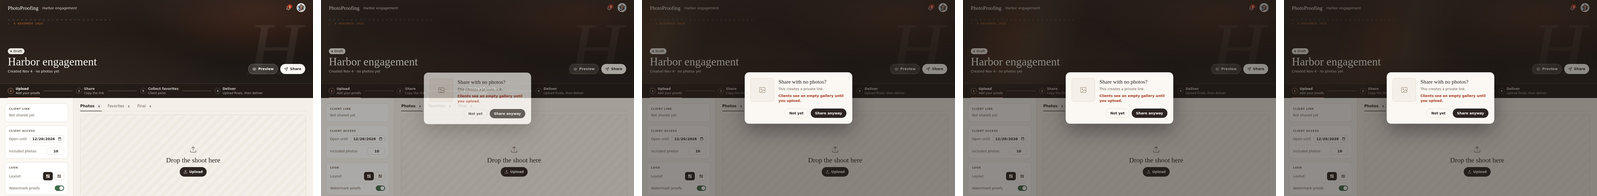
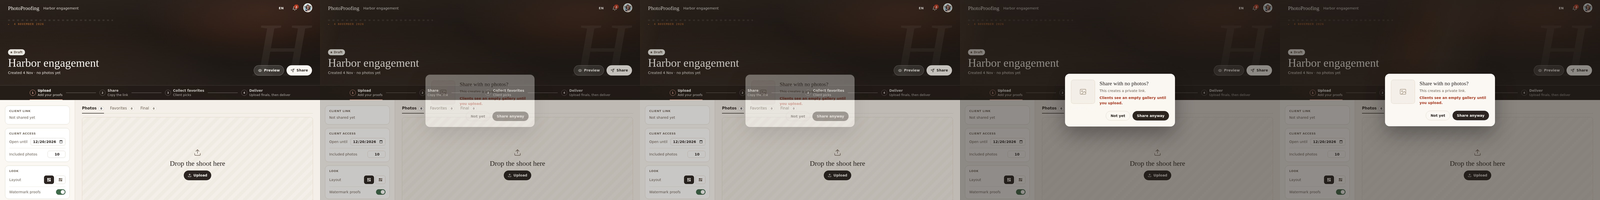
docs(ui): polish gallery select mode, centred steps and empty favorites

diff --git a/docs/designs/ui/prototype.html b/docs/designs/ui/prototype.html
@@ -199,7 +199,7 @@ mark{background:rgba(255,213,150,.55);color:inherit;border-radius:2px;padding:0 
 .ccov .deco .edge::before{margin:0 auto 8px}
 .ccov .deco .ini{right:50%;transform:translate(50%,-62%)}
 .cl .ccv .deco .edge{top:62px;text-align:left}
-.strip{position:absolute!important;left:0;right:0;bottom:0;display:flex;align-items:center;gap:14px;padding:0 32px;background:rgba(32,26,22,.74);-webkit-backdrop-filter:blur(14px) saturate(1.2);backdrop-filter:blur(14px) saturate(1.2);border-top:1px solid rgba(251,248,243,.18);color:rgba(251,248,243,.85)}
+.strip{position:absolute!important;left:0;right:0;bottom:0;display:flex;align-items:center;justify-content:center;gap:14px;padding:0 32px;background:rgba(32,26,22,.74);-webkit-backdrop-filter:blur(14px) saturate(1.2);backdrop-filter:blur(14px) saturate(1.2);border-top:1px solid rgba(251,248,243,.18);color:rgba(251,248,243,.85)}
 .strip .st{display:flex;gap:8px;align-items:center;padding:12px 0;white-space:nowrap;font-size:12.5px;position:relative}
 .strip .st>div{display:flex;flex-direction:column;line-height:1.3}
 .strip .st strong{color:#fbf8f3;font-weight:600;font-size:13.5px}
@@ -265,12 +265,10 @@ label.kv>span{white-space:nowrap}
 .tabs .lk{display:inline-flex;align-self:center;color:var(--muted);margin-left:-3px}
 .ptools{display:flex;align-items:center;justify-content:flex-end;gap:8px;margin:-2px 0 14px;min-height:44px}
 .ptools .fcount{flex:1}
-.selbar{flex:1;display:flex;align-items:center;gap:12px;background:var(--ink);color:#fbf8f3;border-radius:999px;padding:6px 6px 6px 8px;animation:rise .2s ease-out}
-.selbar strong{font:600 14px system-ui}
-.selbar .btn.gh{background:transparent;border-color:rgba(251,248,243,.3);color:#fbf8f3}
-.selbar .btn.lt{background:#fbf8f3;color:var(--ink)}
-.selbar .ic{width:32px;height:32px;border-radius:50%;display:grid;place-items:center;color:#fbf8f3}
-.selbar .ic:hover{background:rgba(251,248,243,.12)}
+.selinfo{flex:1;display:flex;align-items:center;gap:10px;animation:rise .2s ease-out}
+.selinfo strong{font:600 14px system-ui}
+.selinfo .ic{width:32px;height:32px;border-radius:50%;display:grid;place-items:center;color:var(--ink)}
+.selinfo .ic:hover{background:rgba(0,0,0,.06)}
 .mas{columns:4 180px;column-gap:10px}
 .mas.rows{columns:auto;display:grid;grid-template-columns:repeat(auto-fill,minmax(180px,1fr));gap:10px}
 .mas.rows .tile{margin:0;aspect-ratio:3/2}
@@ -317,9 +315,6 @@ button.hero:not(.on):hover{color:#f2c063}
 .drop h3{font:400 28px/1.2 Georgia,serif;color:var(--ink);margin:0}
 .drop p{margin:0;font-size:14px}
 .drop.lockd{border-style:solid;background:var(--panel)}
-.fempty{border:1px solid var(--line);border-radius:14px;background:var(--panel);min-height:340px;display:flex;flex-direction:column;align-items:center;justify-content:center;gap:10px;text-align:center;color:var(--muted);padding:40px}
-.fempty h3{font:400 26px/1.2 Georgia,serif;color:var(--ink);margin:0}
-.fempty .hrt{width:56px;height:56px;border-radius:50%;display:grid;place-items:center;background:var(--page);color:var(--accent);margin-bottom:6px}
 .dlb{position:relative;overflow:hidden}
 .dlb[disabled]{opacity:1;background:#4a3f38}
 .dlb .bar2{position:absolute;left:0;right:0;bottom:0;height:3px;background:rgba(251,248,243,.2);overflow:hidden}
@@ -717,8 +712,6 @@ button.hero:not(.on):hover{color:#f2c063}
   .tabs{gap:16px}.tabs button{font-size:14.5px;gap:6px;padding-bottom:9px}
   .ptools{margin-bottom:10px}
   .ptools .btn{padding:7px 12px}
-  .selbar{gap:6px}
-  .selbar .btn{padding:6px 10px;font-size:12.5px}
   .mas{columns:2;column-gap:8px}
   .mas .tile{margin-bottom:8px}
   .mas.rows{grid-template-columns:1fr 1fr;gap:8px}
@@ -854,7 +847,7 @@ const deskI=sv('<rect x="3" y="4" width="18" height="12" rx="2"/><path d="M8 20h
 const phI=sv('<rect x="7" y="3" width="10" height="18" rx="2"/><path d="M11 18h2"/>',2,15);
 const hF='<svg width="17" height="17" viewBox="0 0 24 24" fill="currentColor"><path d="M12 21s-8-5.2-8-11a4.5 4.5 0 0 1 8-2.8A4.5 4.5 0 0 1 20 10c0 5.8-8 11-8 11z"/></svg>';
 const hO=hF.replace('fill="currentColor"','fill="none" stroke="currentColor" stroke-width="2"');
-const hrt=sv('<path d="M12 20s-7-4.5-7-10a4 4 0 0 1 7-2.6A4 4 0 0 1 19 10c0 5.5-7 10-7 10z"/>',1.6,26);
+const hrt=sv('<path d="M12 20s-7-4.5-7-10a4 4 0 0 1 7-2.6A4 4 0 0 1 19 10c0 5.5-7 10-7 10z"/>',1.5,30);
 const dA=sv('<path d="M12 3v12M7 10l5 5 5-5M4 20h16"/>',2.2,14);
 const xI=sv('<path d="M18 6 6 18M6 6l12 12"/>',2.2),lI=sv('<path d="m15 18-6-6 6-6"/>',2.2),rI=sv('<path d="m9 18 6-6-6-6"/>',2.2);
 const xS=sv('<path d="M18 6 6 18M6 6l12 12"/>',2.2,14),xM=sv('<path d="M18 6 6 18M6 6l12 12"/>',2.2,16);
@@ -1341,14 +1334,14 @@ function mainArea(g,tab){
   const sel=S.ui.sel&&S.ui.selTab===tab?S.ui.sel:null,ctx={g,tab,sel};
   const lc=g.layout==='rows'?' rows':'',fav=tab==='favorites';
   const list=tabList(g,tab);
-  if(!list.length)return fav?`<div data-r="tools"></div><div class="fempty" data-r="grid"><div class="hrt">${hrt}</div><h3>${t('noFav')}</h3></div>`
+  if(!list.length)return fav?`<div data-r="tools"></div><div class="drop" data-r="grid">${hrt}<h3>${t('noFav')}</h3></div>`
     :`<div data-r="tools"></div><div class="drop" data-r="grid">${upl}<h3>${t(tab==='final'?'drop.final':'drop.photos')}</h3><button class="btn pri" data-a="upload">${upS} ${t('upload')}</button></div>`;
   const selBtn=`<button class="btn gh sm" data-a="select">${selI} ${t('select')}</button>`;
   const regen=tab==='photos'&&g.wm.on&&regenOn(g)?`<span class="regen" role="status"><span class="spin"></span>${t('regen')}</span>`:'';
   let tools;
-  if(sel)tools=`<div class="selbar"><button class="ic" data-a="selx" aria-label="${t('sel.cancel')}">${xM}</button><strong>${tn('selected',sel.size)}</strong><span class="sp"></span><button class="btn gh sm" data-a="selall">${t('selectAll')}</button>${fav
-      ?`<button class="btn lt sm${sel.size?'':' dis'}" data-a="seldl">${dl} ${t('download')}</button>`
-      :`<button class="btn dz sm${sel.size?'':' dis'}" data-a="seldel">${trash} ${t('delete')}</button>`}</div>`;
+  if(sel)tools=`<span class="selinfo"><button class="ic" data-a="selx" aria-label="${t('sel.cancel')}">${xM}</button><strong>${tn('selected',sel.size)}</strong></span><button class="btn gh sm" data-a="selall">${t('selectAll')}</button>${fav
+      ?`<button class="btn pri sm${sel.size?'':' dis'}" data-a="seldl">${dl} ${t('download')}</button>`
+      :`<button class="btn dz sm${sel.size?'':' dis'}" data-a="seldel">${trash} ${t('delete')}</button>`}`;
   else if(fav){const busy=S.ui.busy[g.id];tools=`<span class="fcount"></span>${selBtn}${busy?`<button class="btn pri sm dlb" disabled>${t('sel.downloading')}<span class="bar2"><i></i></span></button>`:`<button class="btn pri sm dlb" data-a="dlfavs">${dl} ${t('download')}</button>`}`}
   else tools=`<span class="fcount">${regen}</span>${selBtn}<button class="btn pri sm" data-a="upload">${upS} ${t('upload')}</button>`;
   return `<div class="ptools" data-r="tools">${tools}</div><div class="mas${lc}${sel?' sel':''}" data-r="grid">${list.map(p=>tile(p,ctx)).join('')}</div>`;

diff --git a/docs/designs/ui/screens/gallery.md b/docs/designs/ui/screens/gallery.md
@@ -28,7 +28,7 @@ The hero photo fills a wide banner. Over it:
   ("48 photos · shared 12 Jun");
 - **Preview** (ghost) and the next main action: **Share** for a draft, **Deliver** once shared,
   nothing once delivered, **Restore** when archived;
-- the **journey steps** along the bottom: Upload → Share → Collect favorites → Deliver. Done steps
+- the **journey steps**, centred along the bottom: Upload → Share → Collect favorites → Deliver. Done steps
   show a green tick and a fact ("Shared 12 Jun", "13 selected"), the current step is highlighted,
   later ones are dim. On phones the steps collapse to four dots and the current step's label.
   Hidden when archived.
@@ -96,7 +96,7 @@ regenerated.
 
 Only the client's selection, read-only. Toolbar: **Select** and **Download** (the whole selection
 as a ZIP, with a busy state while it's prepared). Hovering a photo shows a small download button
-for that photo (always visible on touch). Empty: a heart and "No favorites yet". Opening a photo
+for that photo (always visible on touch). Empty: the same dashed drop-area look as the other empty tabs, with a heart and "No favorites yet". Opening a photo
 shows the viewer with the favorite heart.
 
 ### Final
@@ -107,8 +107,9 @@ download mark shows which photos the client has downloaded.
 
 ### Select mode
 
-**Select** turns the toolbar into a dark pill: ✕, "3 selected", **Select all**, and the action:
-**Delete** on Photos and Final, **Download** on Favorites. Tiles show a check; clicking toggles.
+**Select** keeps the toolbar where it is, with no dark bar. On the left appear ✕ and "3 selected"; on the right
+**Select** becomes **Select all**, and the main button becomes the action: **Delete** on Photos and Final,
+**Download** on Favorites. Tiles show a check; clicking toggles.
 Select all only picks the current tab.
 
 ## Dialogs
